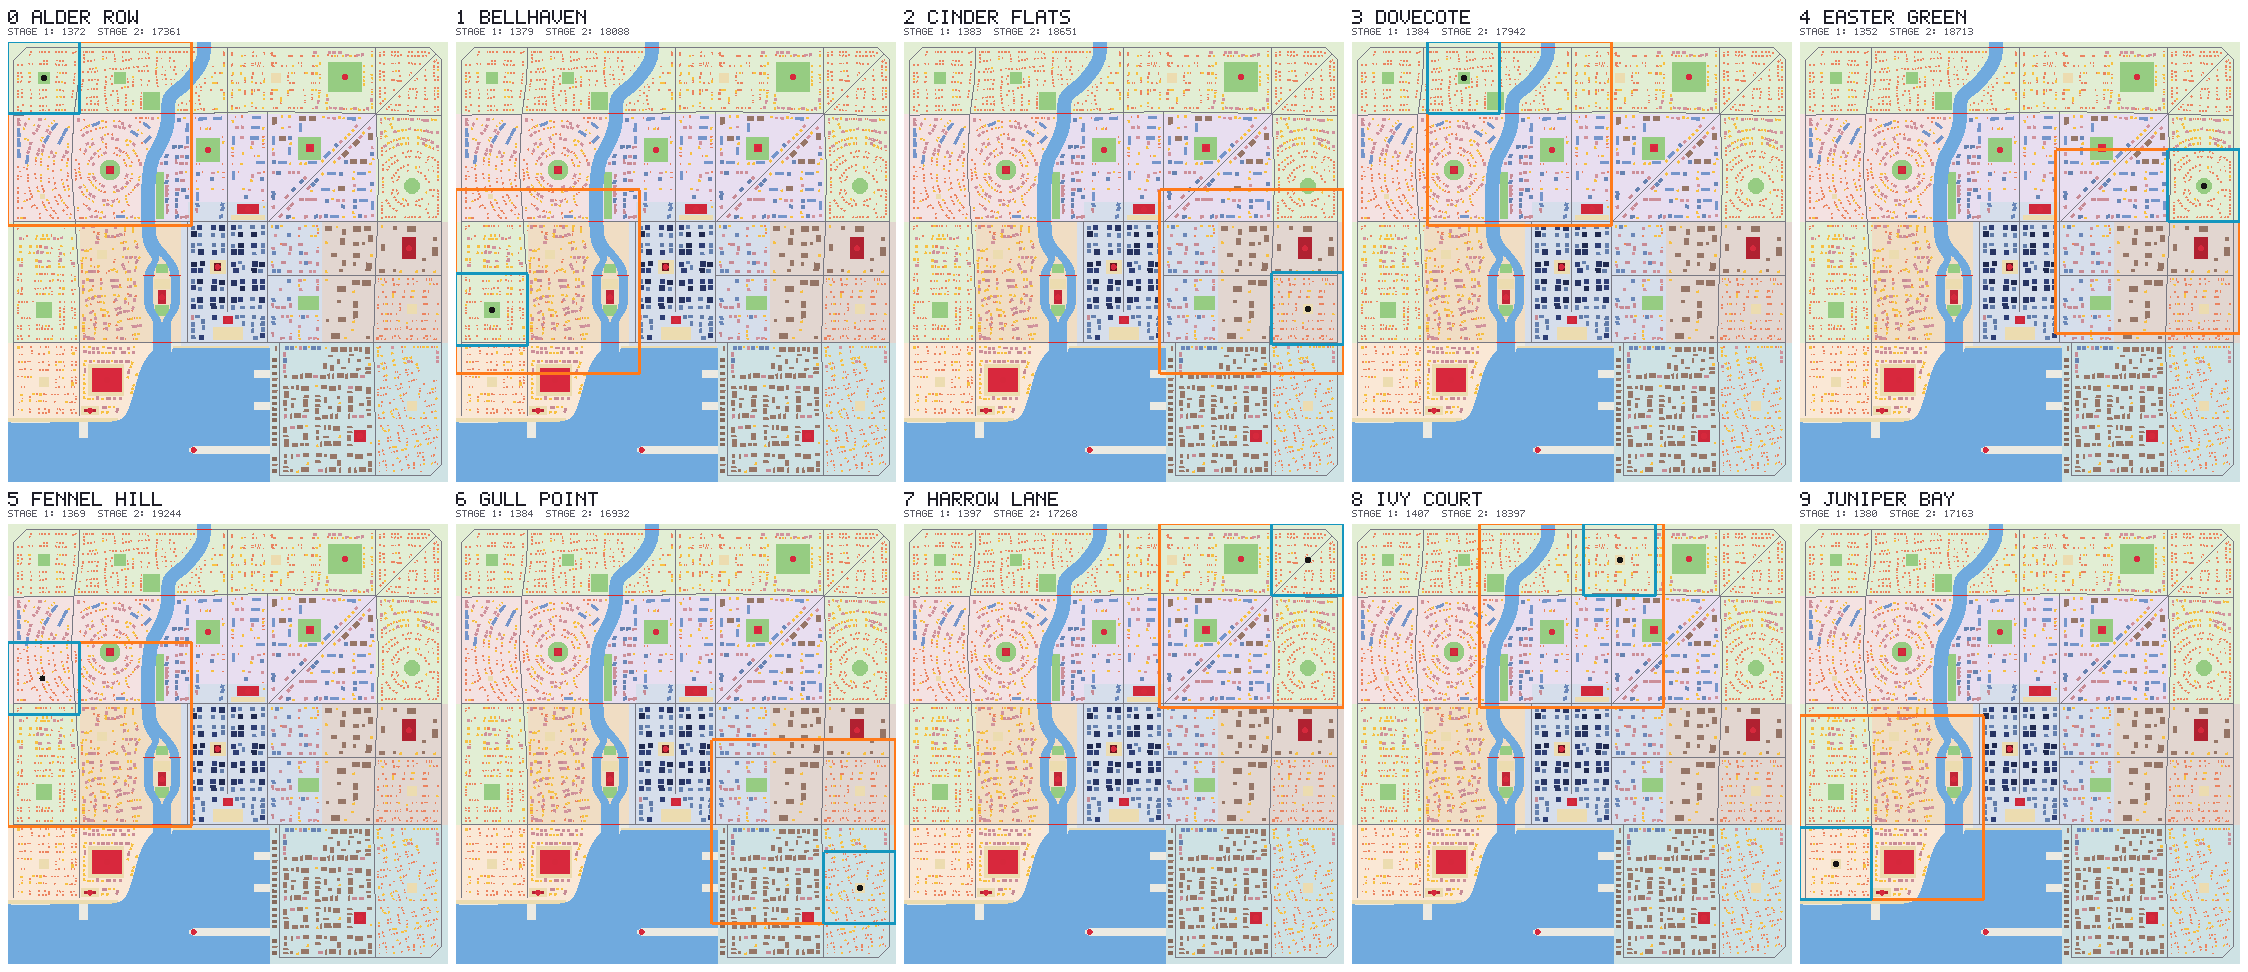
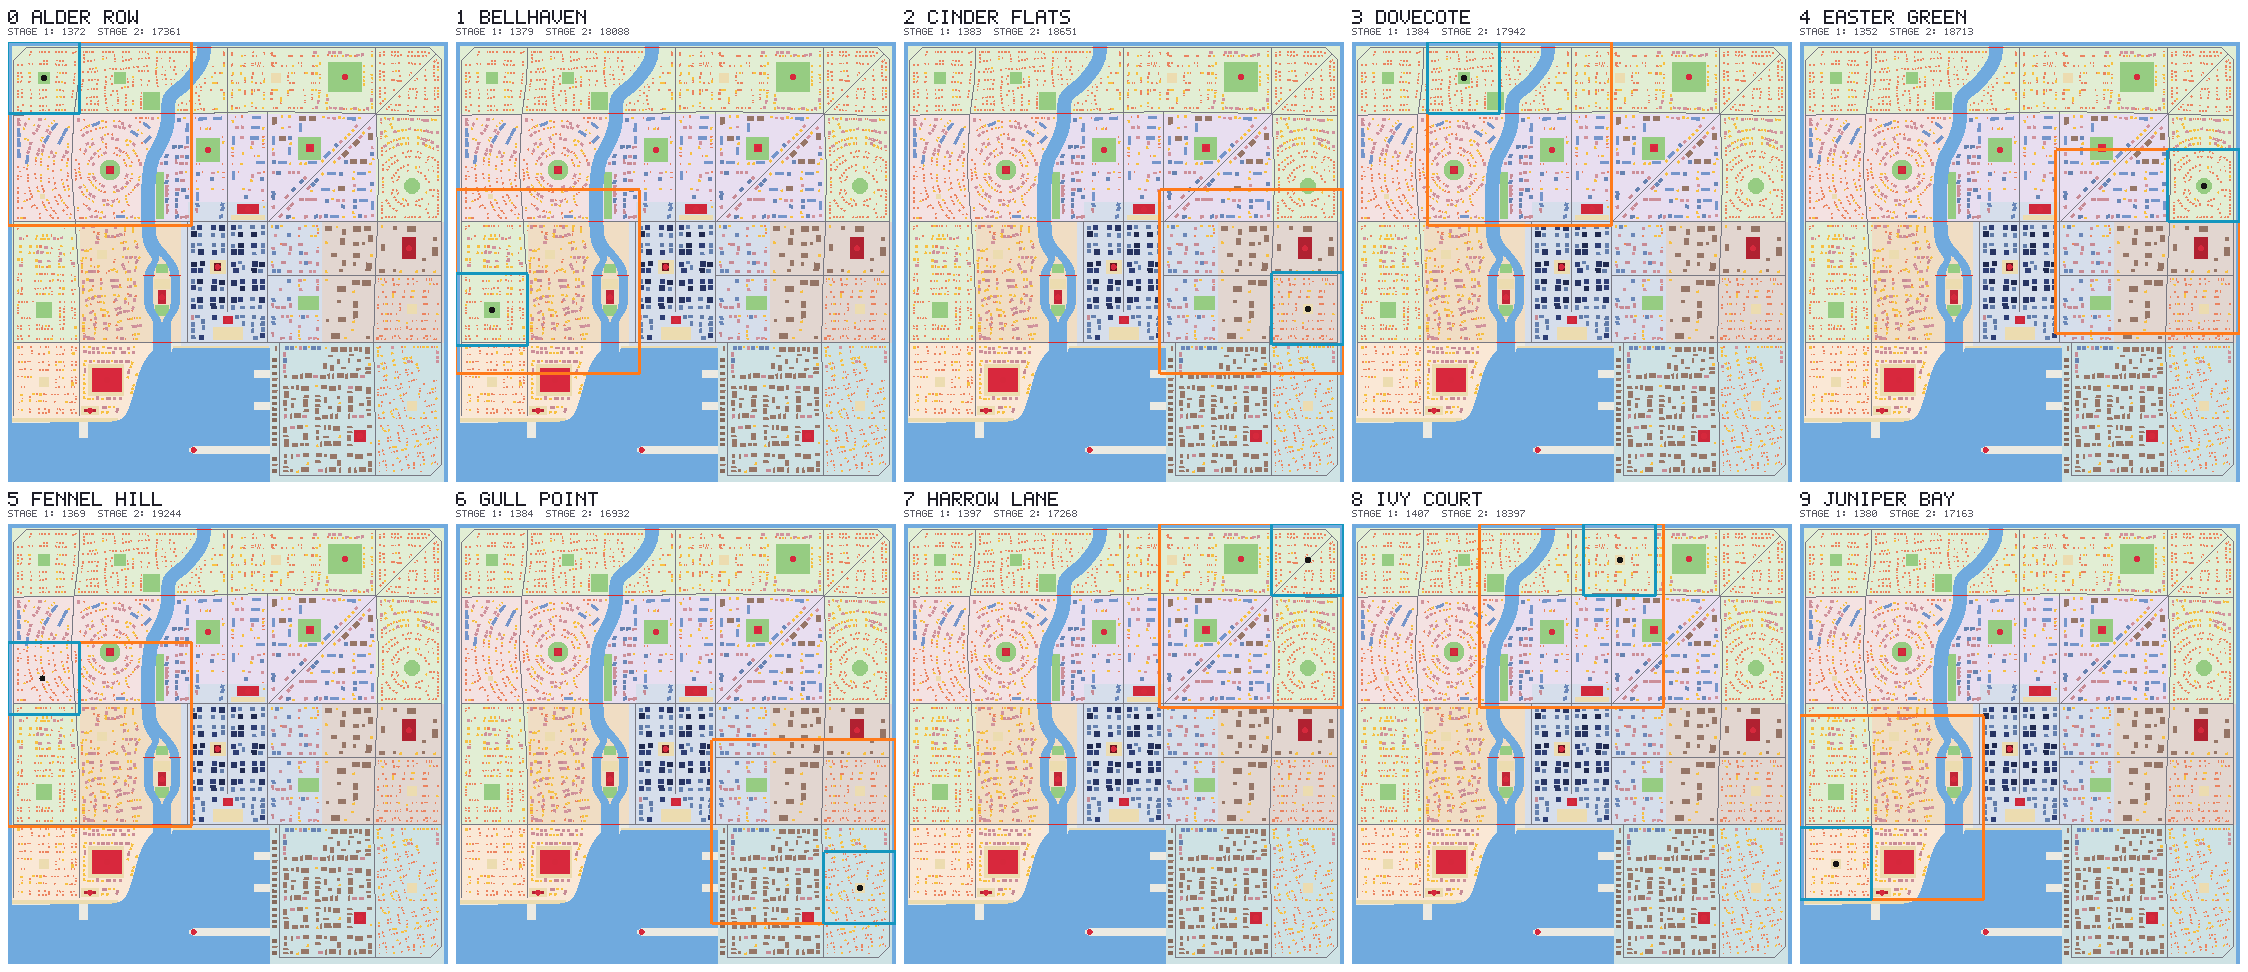
Work in progress: in-flight edits from the second polish pass
Claude-Session: https://claude.ai/code/session_01VjfEy3EmCEkVtKXyYyWoKb

diff --git a/docs/DESIGN.md b/docs/DESIGN.md
@@ -263,6 +263,42 @@ definition.
   below) take the unit damage and 60 nerve per second.
 - **Molt:** holding Molt for 1 s starts the cocoon where the kaiju stands; it drops what it holds.
 
+### Swimming (hide and travel)
+
+Owner's note after the second playtest: "all monsters should have some hide/travel mode,
+Grognar should be able to swim in the river, still hittable but only a few spines/a bit of
+hitbox exposed... Maybe big size doesn't have travel mode." The monster is slower than the army
+and has to hide, and wrecking the city takes its cover away: the water is cover that stays.
+As built (`shared/src/sim/swim.ts`, numbers in the kind's `swim` definition):
+
+- **Who and where.** The hatchling and the juvenile; the titan is too big for any water and
+  wades as before. Water is deep enough where it reaches 0.75 body radii from the kaiju's center
+  all round at stage 1 (3.6 m of water across) and 0.35 at stage 2 (6.3 m): the river, the bay
+  and the Old Moat (section 7). A bridge deck overhead does not matter: it swims under.
+- **No button.** It is automatic, so a new player has nothing to learn: a kaiju that stands or
+  walks in deep water without acting goes under in 1 s. Any kaiju button (strike, grab, block,
+  roar, special, molt) brings it up in 0.6 s, and the press is carried out as soon as it is up
+  (a roar pressed under water is a roar 0.6 s later). An action, a stagger, or leaving deep
+  water also brings it up. After it last acted it stays up 1.5 s before it goes down again, so
+  a fight in the river is a fight, not a bob up and down.
+- **Under** (and while going down or coming up) it cannot strike, grab, throw, eat, brace,
+  roar, breathe its beam or molt, it tramples nobody and wrecks nothing (no destruction, no bar,
+  no rage from the city; a bridge deck it swims under is safe). It moves at 1.1 times its land
+  top speed with no water slowdown (9.4 m/s at stage 1, against 4.3 wading; 15.4 m/s at stage
+  2, against 11.9), and turns at 0.8 of its rate. Nerve still slows it as usual.
+- **What shows** is a ridge of spines: the hit volume shrinks to what is above the water, 0.14
+  of its height (0.6 m at stage 1, 4.5 m at stage 2) over 0.55 of its radius. It can be hit,
+  only by a shot aimed at the spines; a blast catches it only when it reaches what shows.
+  Damage and nerve rules are unchanged.
+- **Seen.** Squads see it, and spot it (the scatter bonus), only within 0.4 of the usual
+  distances (100 m instead of 250, 60 m instead of 150), and only by a sight line to the
+  spines. At stage 2 the humans' map, which otherwise always shows the kaiju, shows it while it
+  is under only when a unit sees it, it made noise, or it is marked. (The orange marker over
+  the kaiju follows the server's `spotted` and `marked`, so it shows less while it swims; the
+  snapshot carries `submerge` for whatever else wants it.)
+- **No stalling.** Nothing it does in the water earns anything and the clock runs on: time
+  spent hiding is time the humans win by.
+
 **Tier 2 kaiju (same verbs, different numbers and one special each):**
 
 - **Krabulon (Crab):** front 150° arc takes ×0.25 damage and nerve; rear takes ×2.2. Sidesteps at
@@ -468,7 +504,7 @@ photos for the front page).
 
 **Map view:** toggles a top-down city map at any time. The game does not pause; the player's
 unit idles. Shows bounds, rubble, friendly units, smoke clouds, and the kaiju when it is known
-(always at stages 2 and 3; at stage 1 only while a human unit has line of sight within 250 m,
+(always at stages 2 and 3 unless it is swimming under water, section 4; at stage 1 only while a human unit has line of sight within 250 m,
 for 3 s after it roars, stomps or wrecks something, or while a squad has marked it), with a
 ring round it while it is marked. Move-to and call-in markers can be placed on the map: a left
 click places the order picked in the picker at the map's left side, which is the move-to
@@ -497,7 +533,9 @@ tick behind what it saw, and plays any slot it is handed at any moment.
   land together. It holds its fire on the move (stray rockets are the kaiju's gain), plants
   the squad afresh when the kaiju has walked out of the arcs, moves on when most of its guns
   have no clear line, drives away when the kaiju comes within 30% of range, and searches (last
-  known position, then around) while a hatchling is off the map. Into a staggered or cocooned
+  known position, then around) while a hatchling, or a kaiju under water, is off the map; when
+  the last known position is out in the water it goes to the near bank instead and waits there.
+  Its line of fire and its crosshair go to what shows of a swimming kaiju (the spines). Into a staggered or cocooned
   kaiju it fires as fast as the guns load. At level 3 it marks artillery a little ahead of the
   kaiju whenever the battery is ready, anywhere in the city. It marks the kaiju when it has it
   in sight and in the crosshair and nobody has marked it, at stage 1 or when its squad is at
@@ -514,7 +552,13 @@ tick behind what it saw, and plays any slot it is handed at any moment.
   units in reach (else on something big), eats below 70% health, and when the molt is offered
   looks for ground where fewer guns can see it and where its next body will have room, for
   16 s at most (smashing what stands in its way there, as it does when wrecking), then
-  cocoons.
+  cocoons. Swimming (stages 1 and 2): when its nerve is 70% full, or it is seen below 40%
+  health, and deep water lies within 10 radii (stage 1) or 8 radii (stage 2), it walks in,
+  presses nothing (so it goes under) and swims away from the squads, along stretches of deep
+  water it can reach in a straight line, for 8 s; then it goes back to work and does not swim
+  away again for 30 s. Water farther away cost it more than it gave back in the balance runs
+  (it turned its back on the guns to get there): with 45 and 28 radii it won 20% of matches
+  instead of about half.
 - **Handicap.** `MatchConfig.bots` handicaps either side from 0 (its best) to 1 (stands still):
   in between, the bot idles that share of the time. For the balance harness, tests and
   practice options. `MatchConfig.bots.triggerHappy` makes the squad bots play the lazy way
@@ -552,6 +596,11 @@ server and every client build the identical city from code. No building list goe
 - Structures collide as oriented boxes; props never block (vehicles and kaiju crush them).
 - The river is shallow: ground units wade at 50% speed; bridges are fast crossings and are
   destructible. Parks and water are open ground where misses cost nothing.
+- The Old Moat (owner's note after the second playtest: "water at all stages"): 20 m of water
+  outside the beltway along the west, north and east edges, so every stage 1 and stage 2 square
+  has water a kaiju can swim in (section 4, "Swimming") within about 165 m of where the match
+  starts, reachable along the streets without breaking anything. No street or building moved
+  for it; it took the place of the tree belt outside the beltway (docs/CITY.md section 11).
 - Civilians are client-only fleeing sprites with no effect on play.
 
 ## 8. Presentation rules
@@ -583,6 +632,7 @@ shortcut that a page cannot cancel).
 | Kaiju: roar | Q | Y |
 | Kaiju: beam (needs full rage) | E | RB |
 | Kaiju: molt (hold 1 s, when a molt is there) | F | B |
+| Kaiju: swim (stages 1 and 2) | no button: walk into deep water and it goes under; any kaiju button brings it up | the same |
 | Squad: fire (also the volley's trigger) | Left button | RT |
 | Squad: command wheel (hold, point, let go): orders to the three other units | Right button or Q | LB |
 | Squad: the open wheel's entry, by a click (the click does not fire) | Left button | RT |
@@ -620,7 +670,9 @@ every control of the player's role, each as the button's glyph on the device in 
 switches when the player picks up a controller) followed by a picture of what it does. A ring
 around a glyph means hold it; a small arrow means "then"; the HUD's three growing triangles
 mark a control that only exists at some stages (grabbing tanks and pieces of buildings from
-stage 2, the molt before stages 2 and 3, artillery at stage 3). The squad's card includes the
+stage 2, the molt before stages 2 and 3, swimming at stages 1 and 2, artillery at stage 3).
+Swimming has no button: its tile is the movement keys, an arrow, and the spines-over-waves
+picture; the HUD shows the same picture, in water blue, while the kaiju is under. The squad's card includes the
 volley (hold and charge, wait for the full charge, then the leader's own shot) and the drone.
 It has a button in the lobby (for the role picked there) and on the briefing screen, is open
 by itself for the whole briefing, and in a match opens and closes with its key while the game

diff --git a/docs/PLAYING.md b/docs/PLAYING.md
@@ -68,6 +68,7 @@ glows for the first 20 seconds of a match.
 | Roar | Q | Y |
 | Fire beam (when the flame meter is full) | E | Right bumper |
 | Shed your skin and grow (hold 1 second, when offered) | F | B |
+| Swim (stages 1 and 2) | No button: walk into deep water and you go under by yourself. Any monster button brings you up. | The same |
 
 **Squad**
 
@@ -115,6 +116,8 @@ small order pictures at the bottom left of the screen pop.
   leader can see the monster up close. The orange triangle over the monster (and a ring round
   it on the map) shows only while a squad has marked it, or a squad leader has it in plain
   sight; it is not there all the time any more.
+- **Spines over two waves, top middle (monster only):** you are swimming under water. Faint
+  while you are going down or coming up.
 - **Grey clouds:** smoke. Nobody sees through it, and the monster cannot see the soldiers and
   tanks inside it (their markers and laser lines disappear on its screen).
 - **Yellow diamonds at the edge of the monster's screen:** squads charging a volley at it, in
@@ -126,7 +129,7 @@ small order pictures at the bottom left of the screen pop.
   in for the big moments (the start, a landmark falling, the monster growing, the last minute,
   the end).
 
-## Five tips for the monster
+## Six tips for the monster
 
 1. Wreck buildings, not soldiers. Only the skyline wins; chasing tanks wastes the clock.
 2. Watch for yellow laser lines, and the yellow diamonds at the edge of your screen: a squad is
@@ -140,8 +143,15 @@ small order pictures at the bottom left of the screen pop.
    hand) to eat it and heal. Throw cars and building chunks
    at squads; save the beam for a row of tall buildings. The beam bucks and pulls to one side
    as it burns: keep steering it back.
+6. Swim. While you are small (stages 1 and 2), walk into the river, the bay or the moat that
+   runs round the edge of the city, and stand or walk without pressing anything: after a
+   second you sink until only your spines show. You swim faster than you walk, the army has
+   to come close to see you, and it can only hit the spines. You cannot attack, grab or burn
+   from the water, and you wreck nothing there, so it is for getting away and getting about:
+   the clock keeps running for the army. Press any monster button to come up (it takes about
+   half a second, then that button does its thing).
 
-## Six tips for the army
+## Seven tips for the army
 
 1. Pair up. Press 4 (hold and charge), wait until the yellow lightning bar is full, then fire
    at the same moment as another squad. Say "volley now" on voice chat.
@@ -155,3 +165,6 @@ small order pictures at the bottom left of the screen pop.
 6. Press R with your crosshair on the monster to mark it for everyone: for ten seconds every
    squad sees where it is and shoots straighter. Press G to throw smoke when it comes for your
    parked guns: it cannot see them in the cloud. Both take half a minute to come back.
+7. A monster in the water shows only a few spines and slips off the map unless someone is
+   close. Wait for it on the bank and shoot at the spines, or mark it. It cannot fight from
+   under the water, and every second it hides there is a second off the clock for you.
